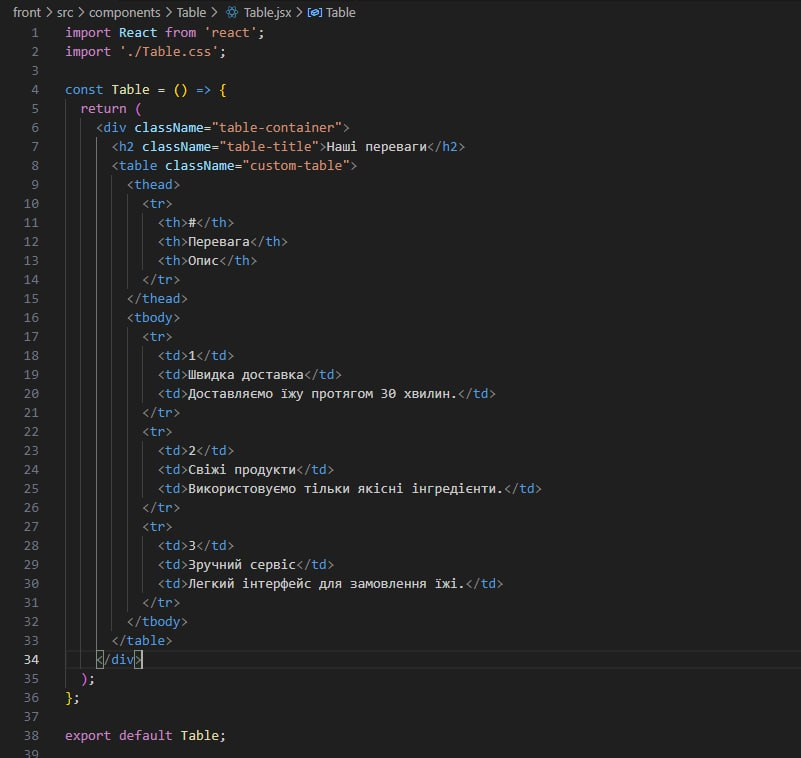
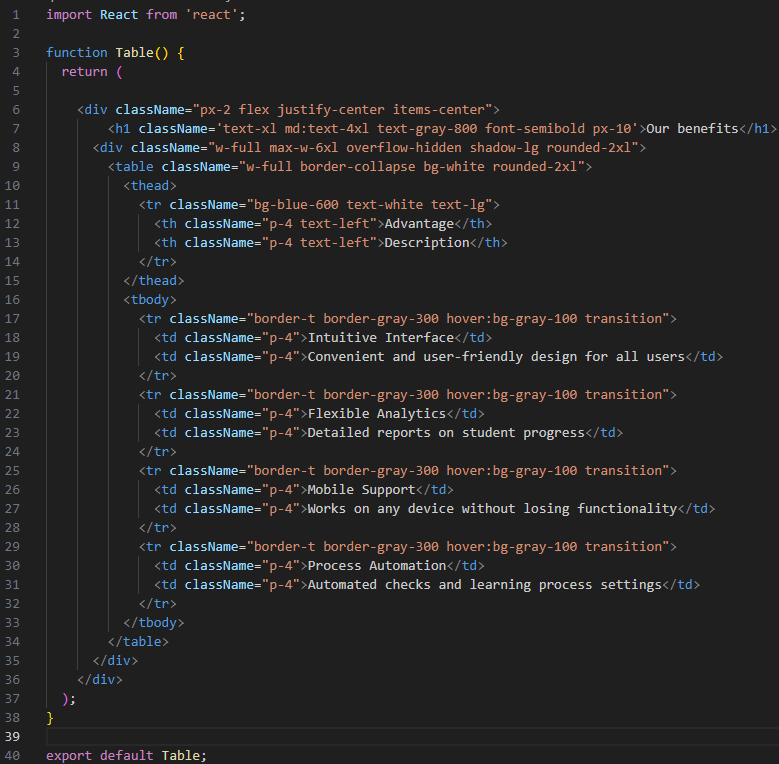
update theory info

Changed region(s): [[0.0, 0.0, 0.9859, 0.9103], [0.0, 0.2124, 0.2773, 1.0], [0.0308, 0.1517, 0.0616, 0.1821]]

diff --git a/src/pages/Laboratorna_1.jsx b/src/pages/Laboratorna_1.jsx
@@ -107,33 +107,53 @@ const Laboratorna1 = () => {
             </div>
 
             <p>
-                Код для секції курсів:
+                Код для таблиці:
             </p>
-            <img src={assets.courses_section_code} alt="1"/>
+            <img src={assets.table_code} alt="1"/>
             <p>
                 Фото:
             </p>
-            <img src={assets.courses_section_photo} alt="1"/>
+            <img src={assets.table_photo} alt="1"/>
             <p>
                 Інформація:
             </p>
             <p>
-                <code>
-                &lt;&#123;allCourses.slice(0, 4).map((course, index) =&gt; 
-                &lt;CourseCard key=&#123;index&#125; course=&#123;course&#125; /&gt;)&#125;
-                </code>
-                Використовується для відображення карточок курсів, метод <code>&lt;allCourses.slice(0, 4)&gt;</code>  бере тільки 4 перші курси з allCourses.
-                <code>&lt;map(...)&gt;</code> – перебирає кожен курс і створює компонент CourseCard для нього. <code>&lt;key=&#123;index&#125;&gt;</code> – унікальний ключ для кожної карточки.
-                <code>&lt;course=&#123;course&#125;&gt;</code> – передає дані курсу в компонент CourseCard.
-                <br/>
-                Тег <code>&lt;ol&gt;</code> (упорядкований список) створює список елементів з чіткою нумерацією або
-                іншими маркерами (наприклад, літерами або римськими цифрами). Як і в <code>&lt;ul&gt;</code>, елементи
-                списку визначаються тегом <code>&lt;li&gt;</code>.
-            
+            Надана таблиця побудована за допомогою HTML та стилізована за допомогою Tailwind CSS. Нижче наведено пояснення ключових елементів, використаних у таблиці.
+            </p>
+
+            <ul>
+            <li>
+                <code>&lt;table&gt;</code> – Визначає основну структуру таблиці.
+            </li>
+            <li>
+                <code>&lt;thead&gt;</code> – Містить заголовки таблиці, що описують стовпці.
+            </li>
+            <li>
+                <code>&lt;tbody&gt;</code> – Містить основний вміст таблиці.
+            </li>
+            <li>
+                <code>&lt;tr&gt;</code> – Визначає рядок таблиці.
+            </li>
+            <li>
+                <code>&lt;th&gt;</code> – Вказує на заголовкову комірку, яка за замовчуванням має жирний текст.
+            </li>
+            <li>
+                <code>&lt;td&gt;</code> – Визначає стандартну комірку з даними.
+            </li>
+            </ul>
+
+            <p>
+            Для покращення вигляду таблиці використовуються класи Tailwind CSS
             </p>
 
             <p>
-                Код для списку спонсорів:
+            Ця таблиця є повністю адаптивною та має привабливий вигляд, що забезпечує зручний користувацький досвід на різних пристроях.
+            </p>
+
+
+
+            <p>
+                Код для зображення:
             </p>
             <img src={assets.sponsors_code} alt="1"/>
             <p>
@@ -144,18 +164,28 @@ const Laboratorna1 = () => {
                 Інформація:
             </p>
             <p>
-                Компонент <code>&lt;Companies&gt;</code> використовується для відображення логотипів компаній, яким довіряють користувачі.
-                <code>&lt;p className='text-base text-gray-500'&gt;</code> – тег <code>&lt;p&gt;</code> створює опис підзаголовка, задаючи стиль тексту за допомогою Tailwind CSS.
-                <code>&lt;div className='flex flex-wrap items-center justify-center gap-6 md:gap-16 md:mt-10 mt-5'&gt;</code> – 
-                контейнер для логотипів, що використовує Flexbox для вирівнювання і адаптивності.
-                <code>&lt;img src=&#123;assets.назва_логотипу&#125; alt="Назва компанії" className='w-20 md:w-28'/&gt;</code> – 
-                кожен тег <code>&lt;img&gt;</code> додає логотип компанії, задаючи його ширину для різних розмірів екранів.
-                <br/>
-                Tailwind-класи <code>flex-wrap</code> та <code>justify-center</code> гарантують, що логотипи коректно відображаються навіть на мобільних пристроях.
+            У наведеному коді використовується тег <code>&lt;img&gt;</code> для відображення логотипів компаній. Нижче розглянемо основні атрибути цього тегу.
             </p>
 
+            <ul>
+            <li>
+                <code>&lt;img src="..."&gt;</code> – Визначає шлях до зображення. У даному випадку, зображення отримуються з об’єкта <code>assets</code>.
+            </li>
+            <li>
+                <code>&lt;img alt="..."&gt;</code> – Атрибут <code>alt</code> містить текстовий опис зображення, що використовується для доступності та у разі, якщо зображення не завантажилося.
+            </li>
+            <li>
+                <code>&lt;img class="..."&gt;</code> – У коді застосовуються класи Tailwind CSS для стилізації:
+            </li>
+            </ul>
+
             <p>
-                Код для таблиці:
+            Завдяки додатковим стилям зображення адаптуються під різні пристрої, зберігаючи гармонійний вигляд.
+            </p>
+
+
+            <p>
+                Код для списку:
             </p>
             <img src={assets.footer_code} alt="1"/>
             <p>
@@ -166,30 +196,27 @@ const Laboratorna1 = () => {
                 Інформація:
             </p>
             <p>
-            Даний блок є частиною футера сайту та складається з трьох основних секцій.
-
-            <code>&lt;div [FIRST]&gt;</code> – 
-            головний контейнер, який використовує <code>flex</code> для адаптивного розміщення елементів у стовпчик на мобільних пристроях і в рядок на більших екранах.
-
-            <code>&lt;div [SECOND]&gt;</code> – 
-            перша секція футера, що містить логотип та короткий опис компанії.
-
-            <code>&lt;div [THIRD]&gt;</code> – 
-            друга секція футера, що містить заголовок <code>&lt;h2&gt;Company&lt;/h2&gt;</code> 
-            та список посилань <code>&lt;ul&gt;</code> для навігації.
-
-            <code>&lt;div [FOURTH]&gt;</code> – 
-            третя секція футера, яка містить форму для підписки на розсилку новин.
-
-            <code>&lt;input type="email" placeholder='Enter your email' /&gt;</code> – 
-            поле введення для електронної пошти.
-
-            <code>&lt;button&gt;Subscribe&lt;/button&gt;</code> – 
-            кнопка для підтвердження підписки.
-
-            Завдяки класам <code>md:flex</code> і <code>hidden</code>, блок з підпискою відображається лише на великих екранах.
-
+            У цьому коді використовується тег <code>&lt;ul&gt;</code> для створення списку посилань. Нижче розглянемо основні теги та атрибути, які використовуються для створення списків.
             </p>
+
+            <h3>Основні теги списків:</h3>
+
+            <ul>
+            <li>
+                <code>&lt;ul&gt;</code> – Означає ненумерований (маркерний) список. У даному випадку він використовується для відображення навігаційних посилань.
+            </li>
+            <li>
+                <code>&lt;li&gt;</code> – Визначає окремий пункт списку.
+            </li>
+            <li>
+                <code>&lt;a href="..."&gt;</code> – Створює гіперпосилання у кожному пункті списку.
+            </li>
+            </ul>
+
+            <p>
+            Завдяки стилям Tailwind CSS списки виглядають естетично та адаптуються до різних розмірів екрана.
+            </p>
+
             <div className="mb-4 mt-4">
                 <p className="font-semibold text-xl">ВИСНОВОК</p>
             </div>
